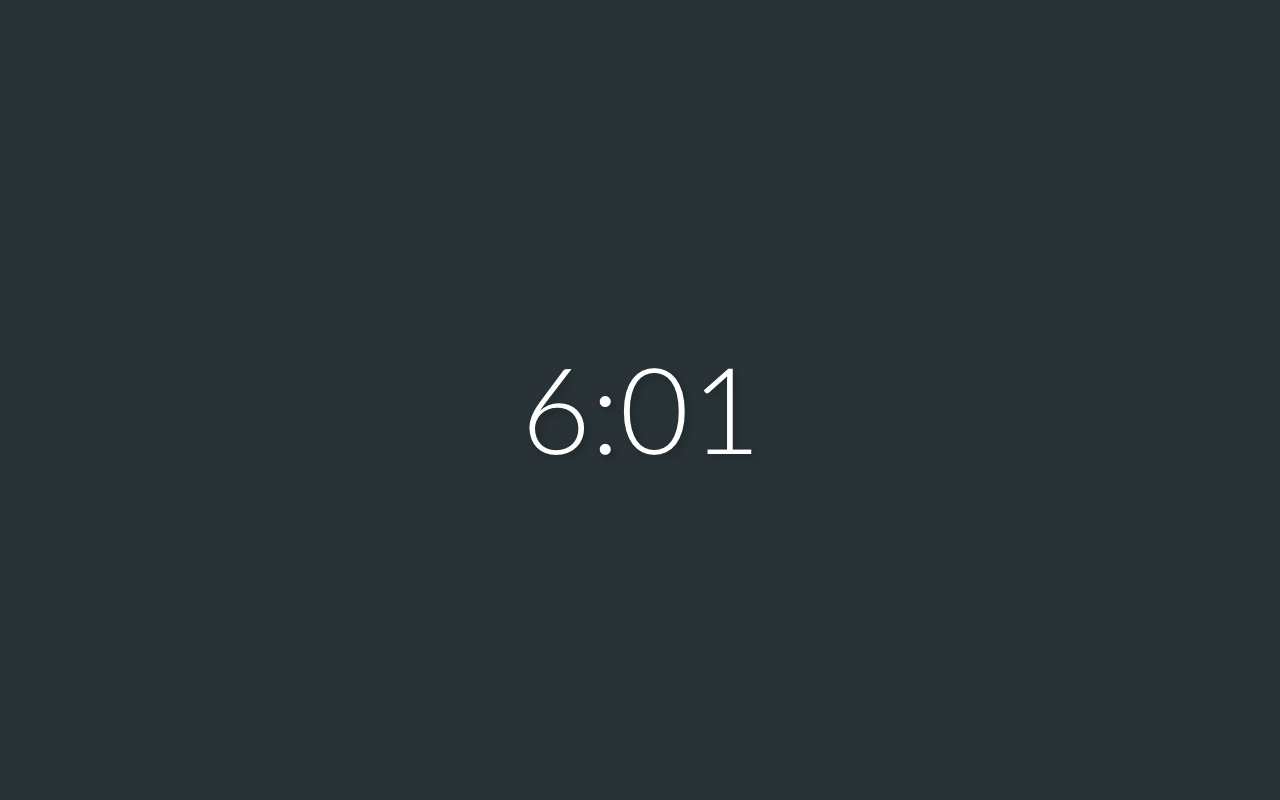
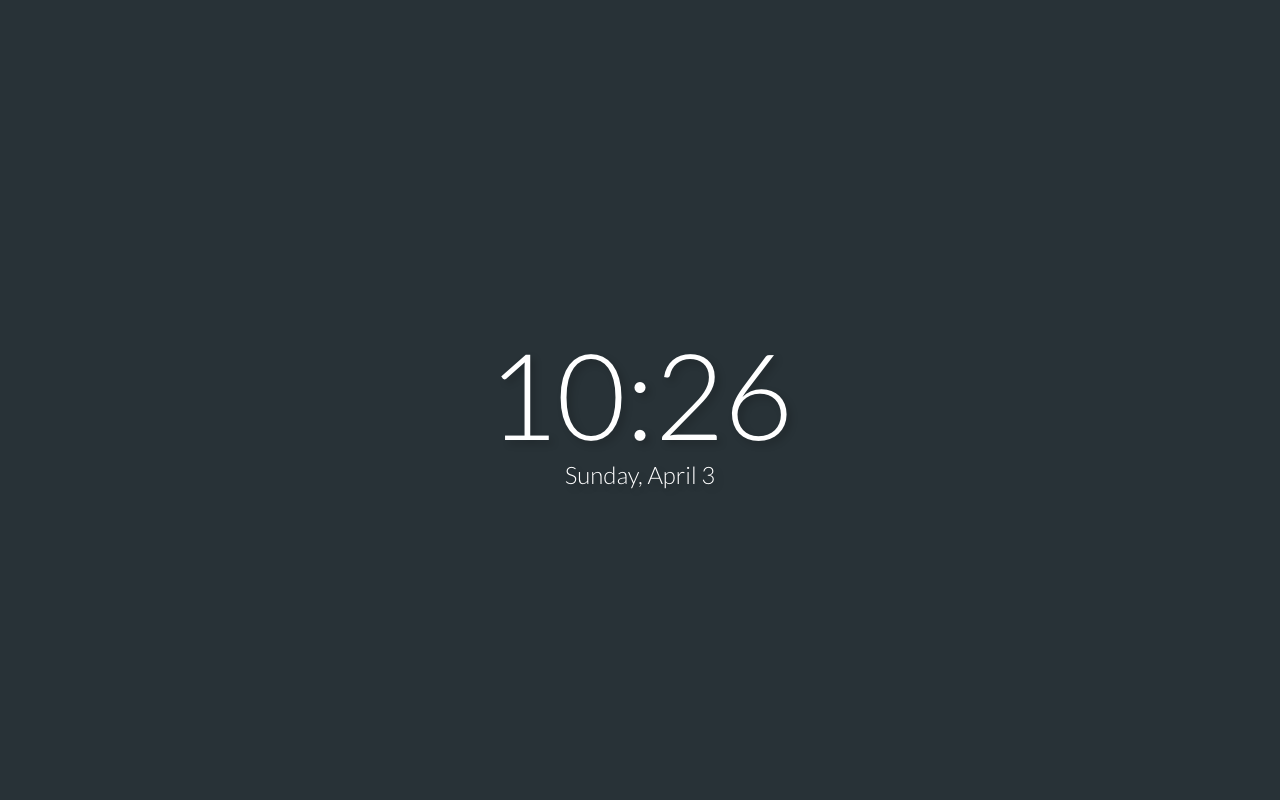
Added (togglable) date

Changed region(s): [[0.375, 0.4375, 0.625, 0.625]]

diff --git a/newtab.js b/newtab.js
@@ -1,6 +1,7 @@
-if (localStorage.length != 4) {
+if (localStorage.length != 5) {
     localStorage.format = true;
     localStorage.zero = false;
+    localStorage.showDate = true;
     localStorage.cycle = true;
     localStorage.theme = 'light';
 }
@@ -22,6 +23,74 @@ function update() {
 	}
 	if (m < 10) { m = '0' + m; }
 	document.getElementById('clock').innerHTML = h + ':' + m;
+    if (JSON.parse(localStorage.showDate)) {
+        var mon;
+        switch (new Date().getMonth()) {
+        	case 0:
+        		mon = 'January';
+        		break;
+        	case 1:
+        		mon = 'February';
+        		break;
+        	case 2:
+        		mon = 'March';
+        		break;
+        	case 3:
+        		mon = 'April';
+        		break;
+        	case 4:
+        		mon = 'May';
+        		break;
+        	case 5:
+        		mon = 'June';
+        		break;
+        	case 6:
+        		mon = 'July';
+        		break;
+        	case 7:
+        		mon = 'August';
+        		break;
+        	case 8:
+        		mon = 'September';
+        		break;
+        	case 9:
+        		mon = 'October';
+        		break;
+        	case 10:
+        		mon = 'November';
+        		break;
+        	case 11:
+        		mon = 'December';
+        		break;
+        }
+        var day;
+        switch (new Date().getDay()) {
+            case 0:
+                day = 'Sunday';
+                break;
+            case 1:
+                day = 'Monday';
+                break;
+            case 2:
+                day = 'Tuesday';
+                break;
+            case 3:
+                day = 'Wednesday';
+                break;
+            case 4:
+                day = 'Thursday';
+                break;
+            case 5:
+                day = 'Friday';
+                break;
+            case 6:
+                day = 'Thursday';
+                break;
+        }
+        document.getElementById('date').innerHTML = day + ', ' + mon + ' ' + new Date().getDate();
+    } else {
+        document.getElementById('date').innerHTML = '';
+    }
 }
 
 update();

diff --git a/options.js b/options.js
@@ -1,8 +1,10 @@
 var format = document.getElementById('format'),
-	theme = document.getElementById('theme'),
-	cycle = document.getElementById('cycle');
+    showDate = document.getElementById('showDate'),
+	cycle = document.getElementById('cycle'),
+	theme = document.getElementById('theme');
 
 format.checked = JSON.parse(localStorage.format);
+showDate.checked = JSON.parse(localStorage.showDate);
 cycle.checked = JSON.parse(localStorage.cycle);
 for (i = 0; i < theme.children.length; i++) {
 	var child = theme.children[i];
@@ -14,15 +16,13 @@ for (i = 0; i < theme.children.length; i++) {
 
 setInterval(function() {
 	localStorage.format = format.checked;
+    localStorage.showDate = showDate.checked;
 	localStorage.cycle = cycle.checked;
 	localStorage.theme = theme.children[theme.selectedIndex].value;
 
-    if (cycle.checked) {
-        theme.parentElement.style.height = 0;
-        theme.parentElement.style.opacity = 0;
-    }
-    else {
-        theme.parentElement.style.height = '30px';
-        theme.parentElement.style.opacity = 1;
-    }
+	if (cycle.checked) {
+		theme.parentElement.style.opacity = 0.5;
+	} else {
+		theme.parentElement.style.opacity = 1;
+	}
 }, 50);

diff --git a/options.html b/options.html
@@ -9,17 +9,25 @@
 
 <body>
     <div id="clock"></div>
+    <div id="date"></div>
     <div class="switch">
         <p>24-HOUR</p>
         <input type="checkbox" id="format">
         <label for="format"></label>
         <p>12-HOUR</p>
     </div>
-    <div class="checkbox">
-        <input type="checkbox" id="cycle">
-        <label for="cycle"></label>
-        <p>CHANGE THEME BY TIME OF DAY</p>
-    </div>
+    <section>
+        <div class="checkbox">
+            <input type="checkbox" id="showDate">
+            <label for="showDate"></label>
+            <p>SHOW DATE
+        </div>
+        <div class="checkbox">
+            <input type="checkbox" id="cycle">
+            <label for="cycle"></label>
+            <p>CHANGE THEME BY TIME OF DAY</p>
+        </div>
+    </section>
     <div class="select">
         <select id="theme">
             <option value="light">LIGHT</option>

diff --git a/newtab.css b/newtab.css
@@ -12,6 +12,7 @@ body {
     display: flex;
     justify-content: center;
     align-items: center;
+    flex-direction: column;
     cursor: default;
     -webkit-user-select: none;
     -webkit-touch-callout: none;
@@ -20,15 +21,23 @@ body {
 }
 #clock {
     font-size: 10em;
+    line-height: 1.1;
+}
+#date {
+    font-size: 2em;
 }
 .light { background: white; }
-.light #clock { color: #333; }
+.light #clock,
+.light #date { color: #333; }
 
 .dark { background: #333; }
-.dark #clock { color: #111; }
+.dark #clock,
+.dark #date { color: #111; }
 
 .night { background: #222; }
-.night #clock { color: white; }
+.night #clock,
+.night #date { color: white; }
 
 .material { background: #263238; }
-.material #clock { color: white; text-shadow: 4px 4px 10px rgba(0,0,0,.2); }
+.material #clock,
+.material #date { color: white; text-shadow: 4px 4px 10px rgba(0,0,0,.2); }

diff --git a/options.css b/options.css
@@ -1,16 +1,13 @@
 * {
     transition: .3s;
 }
-body {
-    flex-direction: column;
-}
 p {
     font-size: 1.1em;
     font-weight: bolder;
     display: inline-block;
 }
 .switch {
-    margin: 20px 0;
+    margin: 30px 0 10px;
 }
 .switch p {
     margin: 0 6px;
@@ -90,16 +87,16 @@ p {
     margin-left: 12px;
     margin-top: 7px;
 }
-.select {
-    margin-top: 5px;
-    border: solid 2px #333;
-    overflow: hidden;
-    opacity: 0;
-    height: 0;
-}
 .select,
 select {
     width: 130px;
+    height: 30px;
+}
+.select {
+    margin-top: 3px;
+    border: solid 2px #333;
+    overflow: hidden;
+    opacity: .5;
 }
 select {
     font-weight: bold;
@@ -110,7 +107,6 @@ select {
     font-size: 16px;
     user-select: none;
     cursor: pointer;
-    height: 30px;
 }
 
 .light .switch label:before,

diff --git a/newtab.html b/newtab.html
@@ -7,6 +7,7 @@
 
 <body>
     <div id="clock"></div>
+    <div id="date"></div>
     <script src="newtab.js"></script>
 </body>
 

diff --git a/README.md b/README.md
@@ -4,18 +4,19 @@
 Gorgeous hyperminimalistic black & white New Tab Page.
 
 ## Features
+* 12- and 24-hour time
+* Date (can be hidden or shown)
 * 4 beautiful themes: light, night, (full) dark, and material
 * Option to rotate between light and night themes based on time of day
-* 12 and 24-hour time
 
 ## Installation
 The packaged Chrome extension is available [here](https://chrome.google.com/webstore/detail/doiinciigjmmlnbehjjjkeoamihggkba).  
-To install from source:
-1. Clone or download files.
-2. Open Chrome Extensions page and activate Developer Mode.
-3. Load Unpacked Extension, and locate the extension folder.
-4. Select the folder and click open.
-5. If you like, click options to go to the configuration page.
+To install from source:  
+1. Clone or download files.  
+2. Open Chrome Extensions page and activate Developer Mode.  
+3. Load Unpacked Extension, and locate the extension folder.  
+4. Select the folder and click open.  
+5. If you like, click options to go to the configuration page.  
 
 This extension should work out of box. Settings can be configured in the Options link visible in the extensions menu.
 
